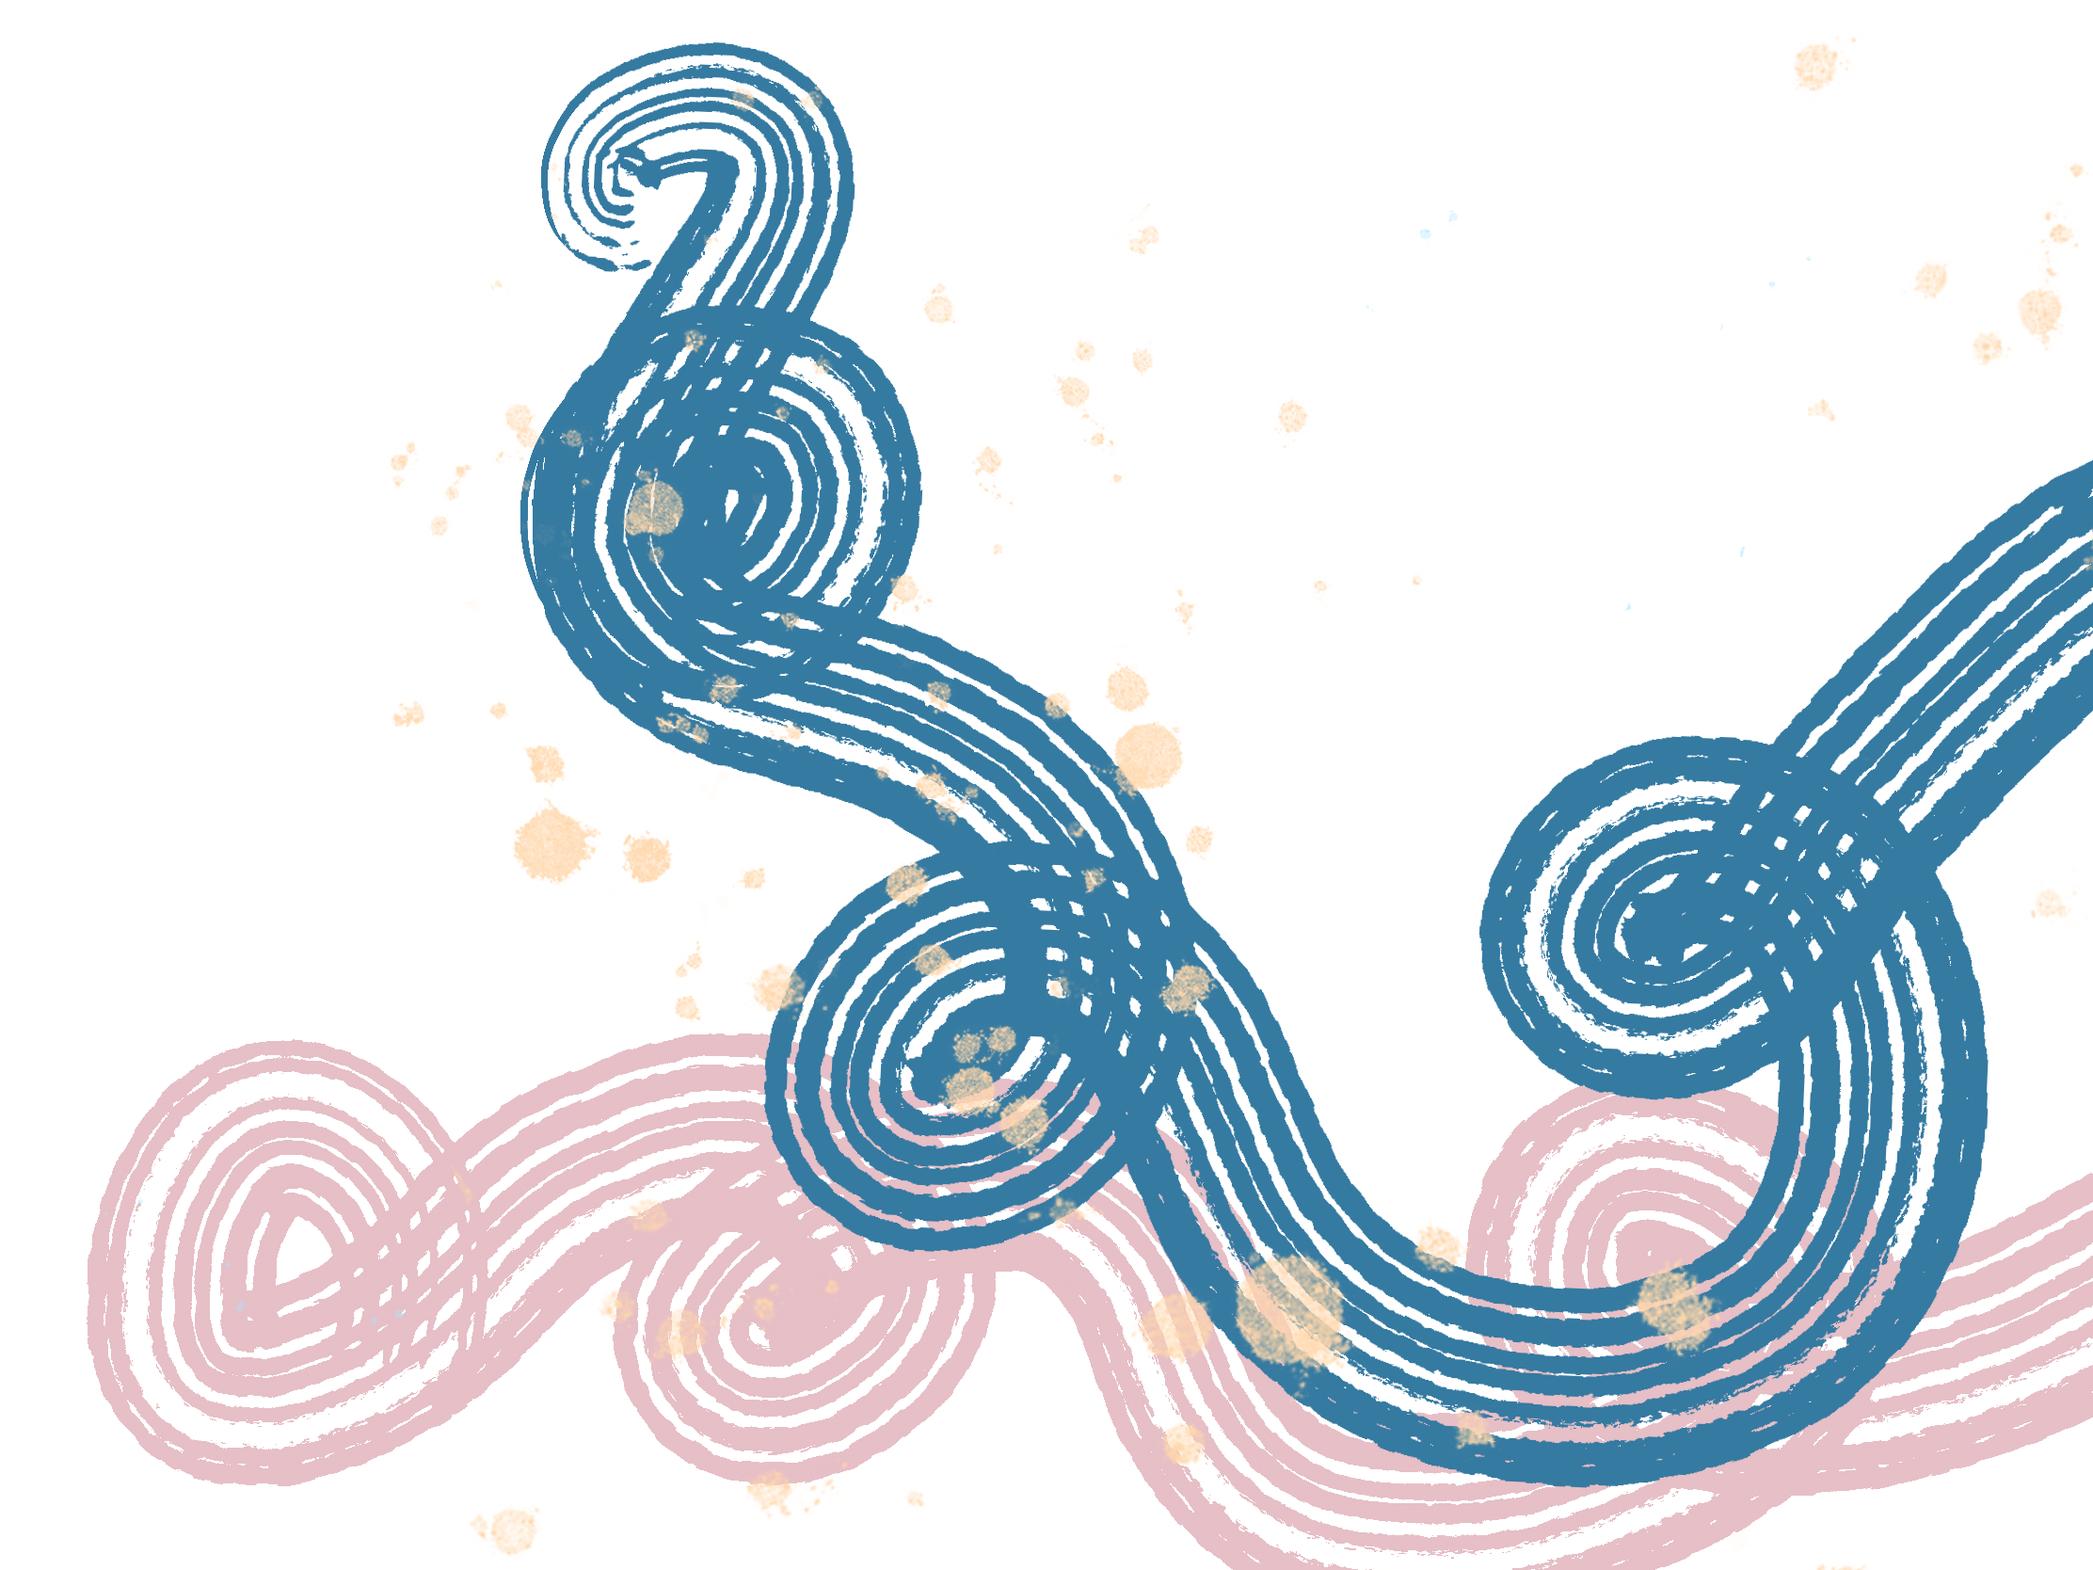
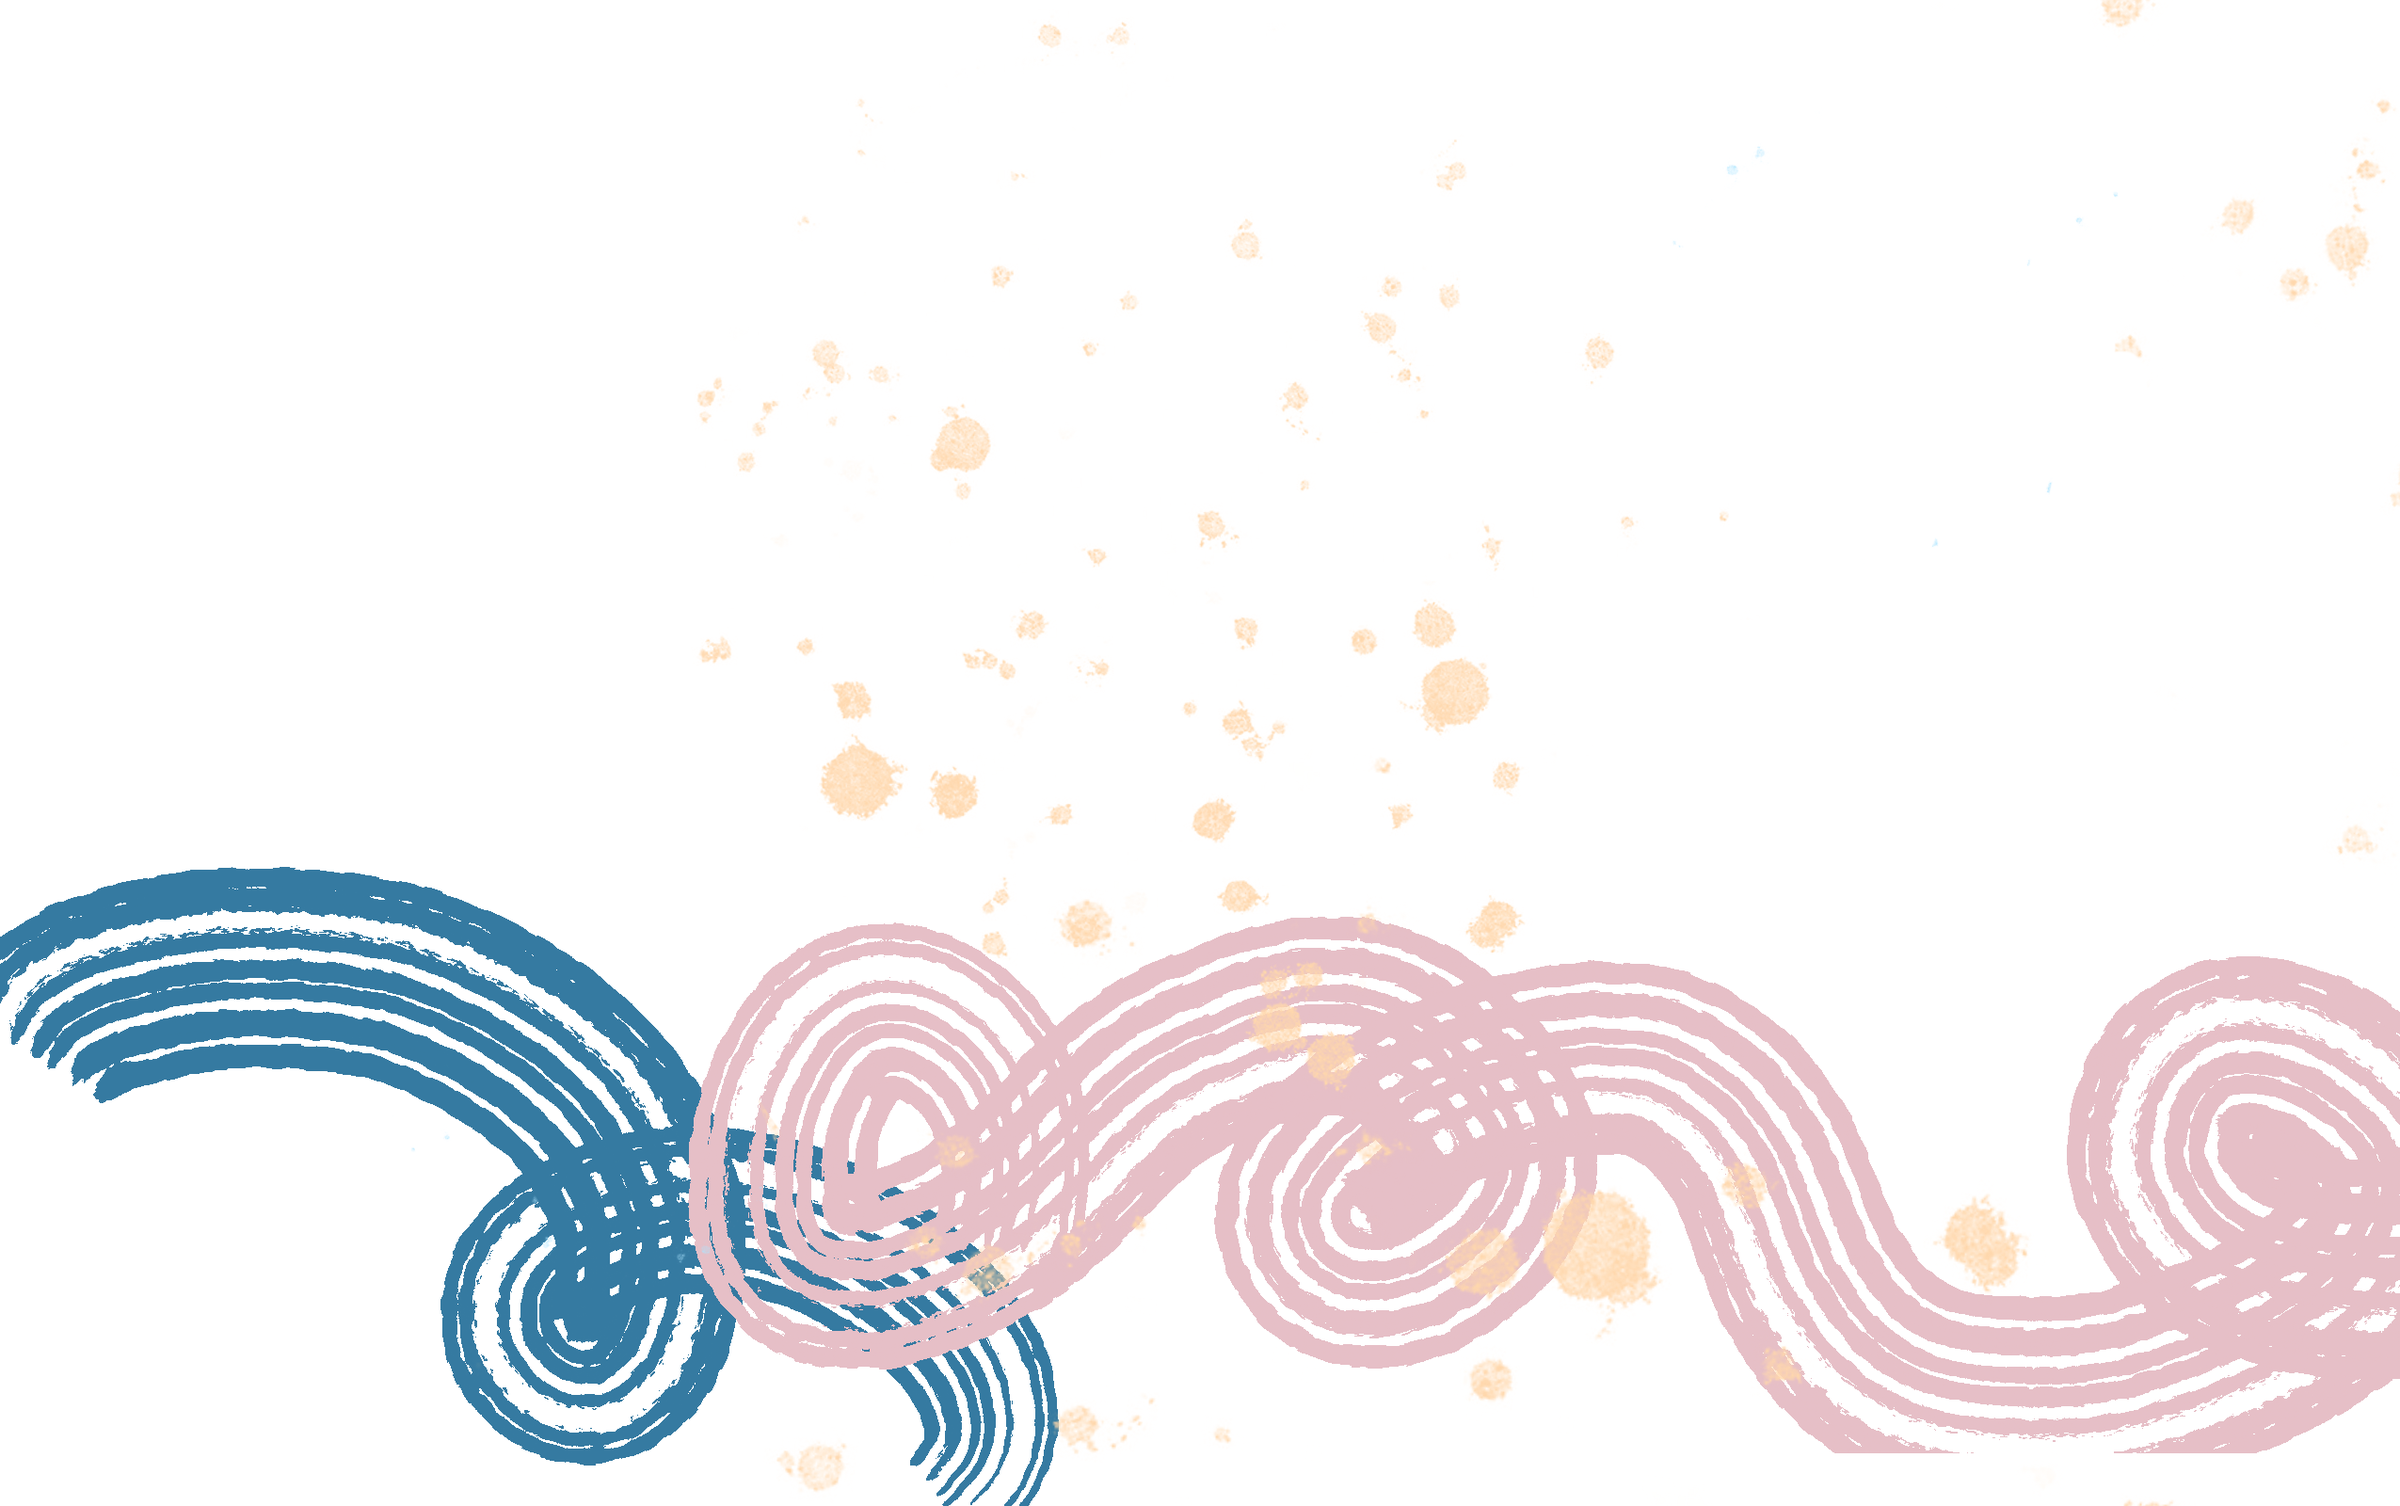
feat(home):updated background

diff --git a/src/components/Home.css b/src/components/Home.css
@@ -1,16 +1,19 @@
-body {
+.homebg {
     background-image: url("../images/Home.png");
-    background-size: 83vw 100vh;
+    background-size: 100vw 100vh;
     background-position: bottom no-repeat;
     background-position-x: right;
     background-repeat: no-repeat;
-}
-.outterComponentContainer {
+    position: absolute;
+    top: 0;
+    right: 0;
+    bottom: 0;
+    left: 0;
     display: flex;
     justify-content: center;
     align-items: center;
 }
-.innerComponentContainer{
+.componentContainer{
     display: flex;
     justify-content: center;
     width:800px;

diff --git a/src/components/Home.js b/src/components/Home.js
@@ -4,8 +4,8 @@ import "./Home.css";
 
 const Home = () => {
     return <>
-        <div className="outterComponentContainer">
-            <div className="innerComponentContainer">
+        <div className="homebg">
+            <div className="componentContainer">
                 <div className="introContainer">
                     <div className="imgContainer">
                         <img src={headProfile} className="profilePic" alt="Kriselda's photo" />

diff --git a/src/components/App.js b/src/components/App.js
@@ -1,5 +1,6 @@
 import React from "react";
 import { Routes, Route, NavLink } from "react-router-dom"
+import "../style.css"
 import {
     Home
 } from "./index"

diff --git a/src/style.css b/src/style.css
@@ -1,3 +1,4 @@
 html {
     font-size: 14px;
 }
+
